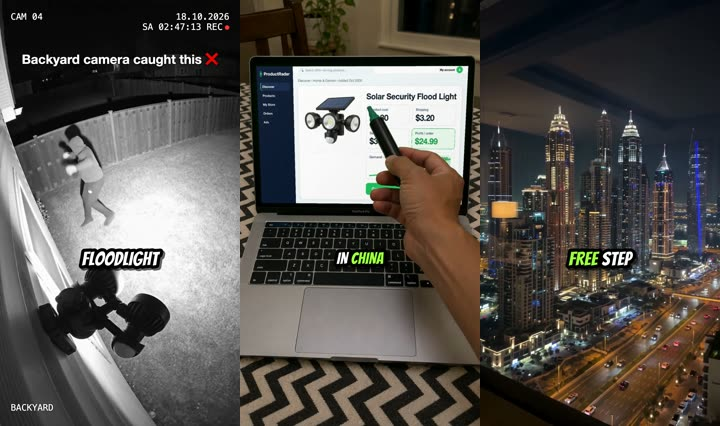
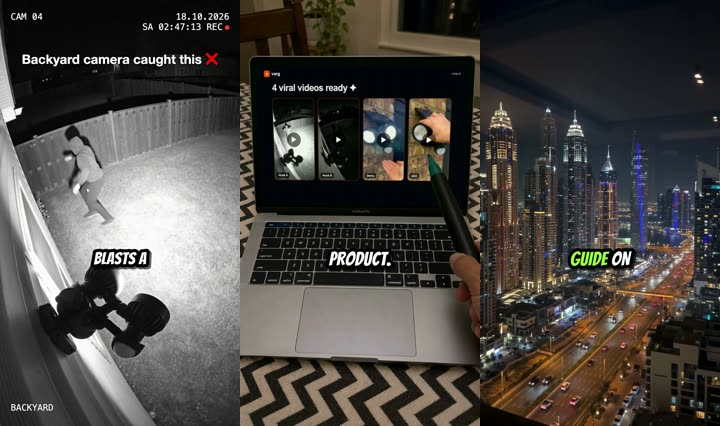
Solar light example: the AI video step on varg.ai

diff --git a/README.md b/README.md
@@ -17,7 +17,7 @@ Every video below was made end to end with AI from one supplier-style product ph
 
 | Product | Hook | Video |
 |---|---|---|
-| Solar security flood light | Backyard security camera at night, the light blasts a thief | [![Solar security light AI dropshipping video](examples/solar-security-light.jpg)](https://s3.varg.ai/files/194b94d0-58ff-4e8b-91de-4f1959d04013/file_f6dc05463eca.mp4) |
+| Solar security flood light | Backyard security camera at night, the light blasts a thief; the AI ads are made on varg.ai | [![Solar security light AI dropshipping video](examples/solar-security-light.jpg)](https://s3.varg.ai/files/194b94d0-58ff-4e8b-91de-4f1959d04013/file_d45406f8d0db.mp4) |
 | Cut-resistant gloves | Torture test: a chef's knife across the glove, a mandoline | [![Cut-resistant gloves AI dropshipping video](examples/cut-resistant-gloves.jpg)](https://s3.varg.ai/files/194b94d0-58ff-4e8b-91de-4f1959d04013/file_631fb721a315.mp4) |
 | Heated neck massager | Gift reaction: dad opens it on Father's Day | [![Heated neck massager AI dropshipping video](examples/heated-neck-massager.jpg)](https://s3.varg.ai/files/194b94d0-58ff-4e8b-91de-4f1959d04013/file_3c77d15fbf7e.mp4) |
 | LED pet nail clipper | Satisfying close-up: the LED lights up the claw | [![LED pet nail clipper AI dropshipping video](examples/led-pet-nail-clipper.jpg)](https://s3.varg.ai/files/194b94d0-58ff-4e8b-91de-4f1959d04013/file_782920d92e94.mp4) |
